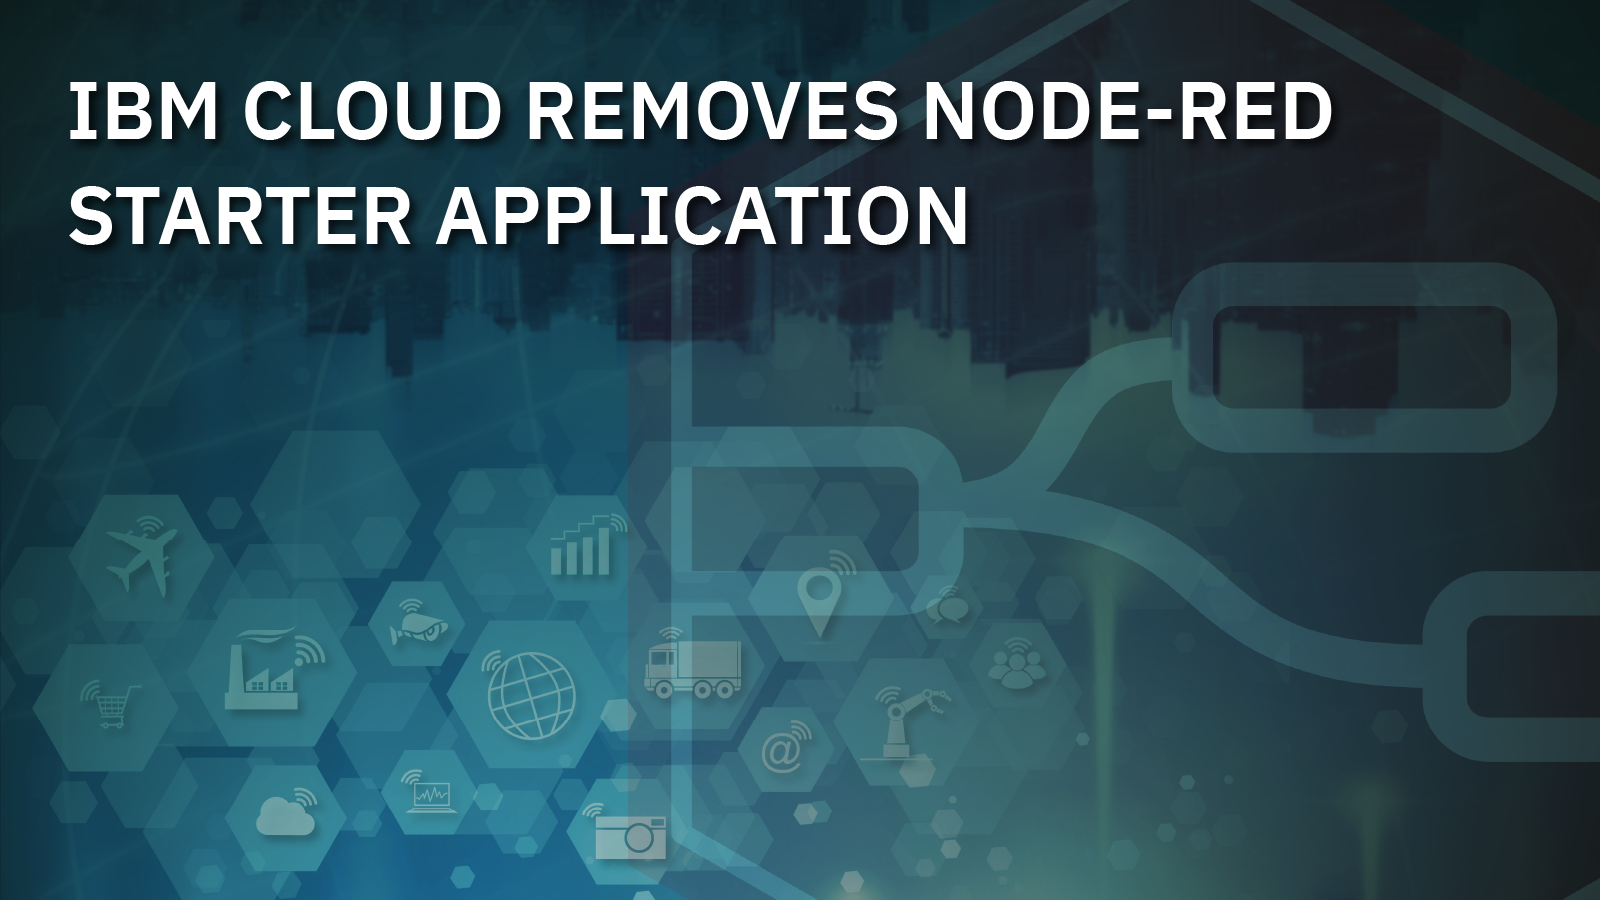
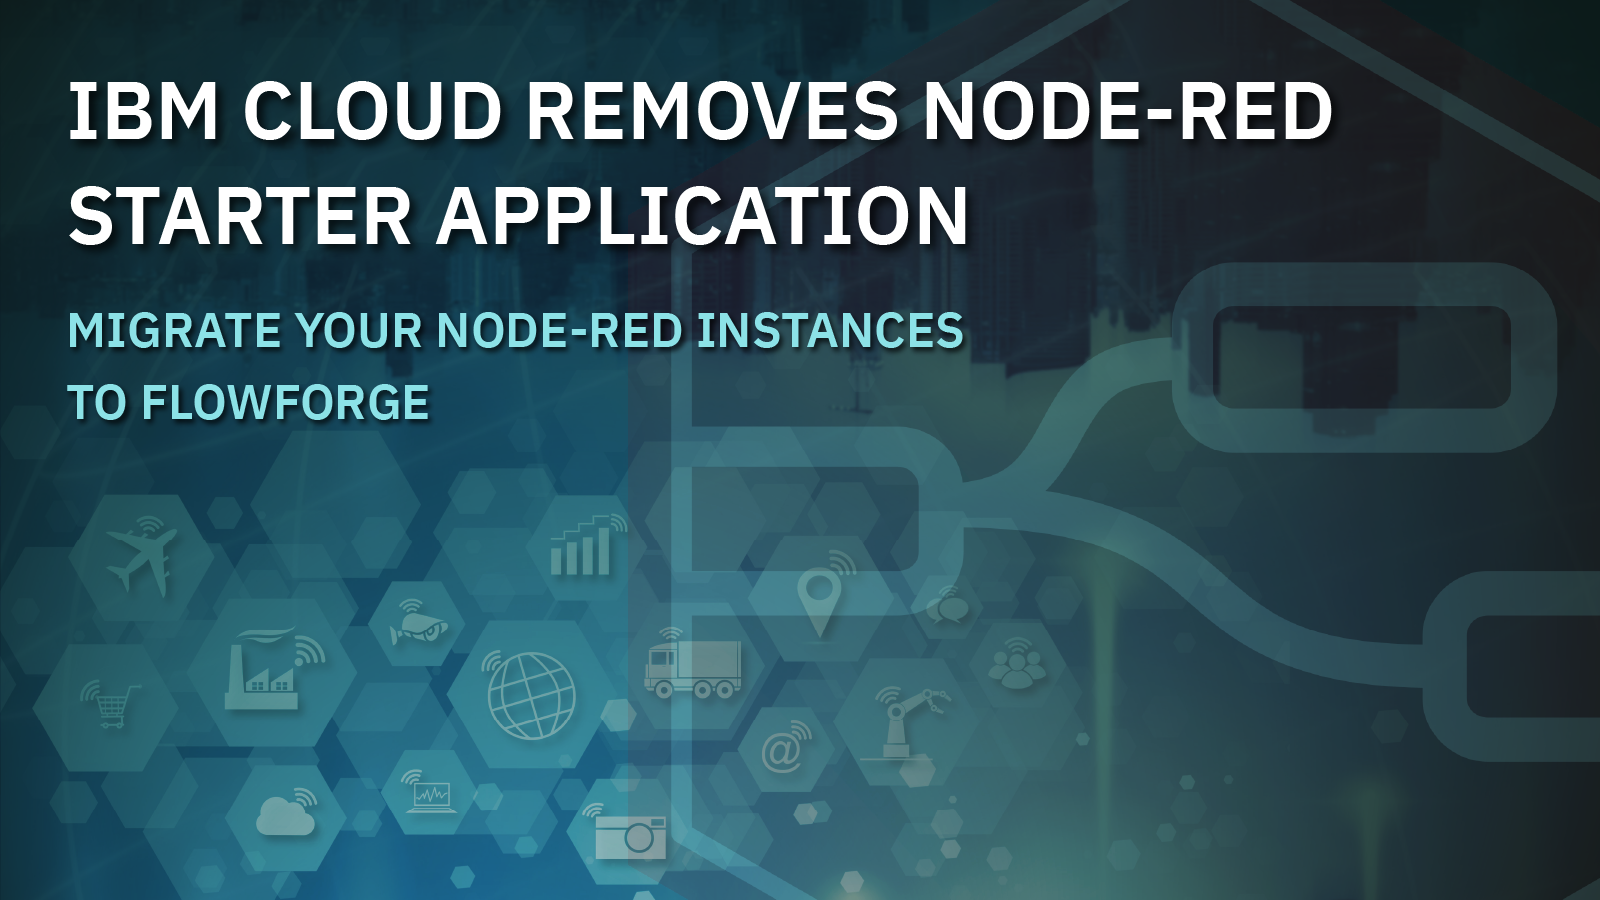
Update blog meta & tile to include migration subtitle

Changed region(s): [[0.0312, 0.3422, 0.625, 0.4667]]

diff --git a/src/blog/2023/03/ibmcloud-starter-removed.md b/src/blog/2023/03/ibmcloud-starter-removed.md
@@ -1,10 +1,10 @@
 ---
 title: IBM Cloud removes Node-RED starter application
-subtitle: Get up and running with a Starter Application for Node-RED with FlowForge 
+subtitle: Get up and running with a Starter Application for Node-RED with FlowForge or migrate your existing flows from IBM Cloud
 description: IBM Cloud has recently announced that they will no longer be providing their Cloud App Service Starter Kits, including the Node-RED Starter Application. Don't worry though, FlowForge has you covered.
 date: git created
 authors: ["joe-pavitt"]
-image: /images/blog/tile-ibm-cloud-starter-removed.png
+image: /images/blog/tile-ibm-cloud-starter-removed--text.png
 tags:
     - posts
 ---
